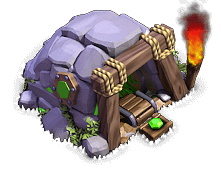
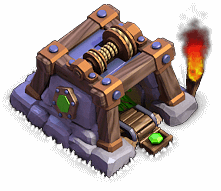
change

diff --git a/res/js/main.js b/res/js/main.js
@@ -1,8 +1,10 @@
 const gemMine = document.getElementById("gemMine");
+const gemMineIcon = document.getElementById("gemMineIcon");
 const gems = document.getElementById("gemCount");
 const gemIcon = document.getElementById("gemicon");
 const clickUpgrade = document.getElementById("upgrade");
 const autoClickerButton = document.getElementById("autoClicker");
+
 
 let numberOfGems = 0;
 let costOfClickUpgrade = 50;
@@ -10,6 +12,7 @@ let clickUpgradeIncrease = 1;
 let autoClickIncrease = 0;
 let autoClickInterval;
 let autoClickerCost = 500;
+let gemLevel = 1;
 
 gemMine.onclick = () => {
   console.log("click");
@@ -25,6 +28,27 @@ const clickUpgradeFunction = () => {
 
     costOfClickUpgrade += 10;
     upgrade.innerHTML = `Upgrade gem mine: ${costOfClickUpgrade} <img src="${gemIcon.src}" alt="Gem Icon">`; 
+    gemLevel += 1;
+    if (gemLevel == 4) {
+      gemMineIcon.src = 'res/img/Gem_Mine2.png';
+    }
+
+    if (gemLevel == 8) {
+      gemMineIcon.src = 'res/img/Gem_Mine3.png';
+    }
+
+    if (gemLevel == 16) {
+      gemMineIcon.src = 'res/img/Gem_Mine4.png';
+    }
+
+    if (gemLevel == 32) {
+      gemMineIcon.src = 'res/img/Gem_Mine5.webp';
+    }
+
+    if (gemLevel == 64) {
+      gemMineIcon.src = 'res/img/Gem_Mine6.webp';
+    }
+
   }
 };
 

diff --git a/index.html b/index.html
@@ -12,7 +12,7 @@
 
 <div class="container">
   <div id="gemMine">
-    <img src="./res/img/Gem_Mine2.png" alt="Gem Mine">
+    <img src="./res/img/Gem_Mine1.png" alt="Gem Mine" id="gemMineIcon">
   </div>
   <p id="gemCount"><img id="gemicon" src="./res/img/gem.webp" alt="Gem Icon"> <span id="gemCountValue">0</span></p>
 
